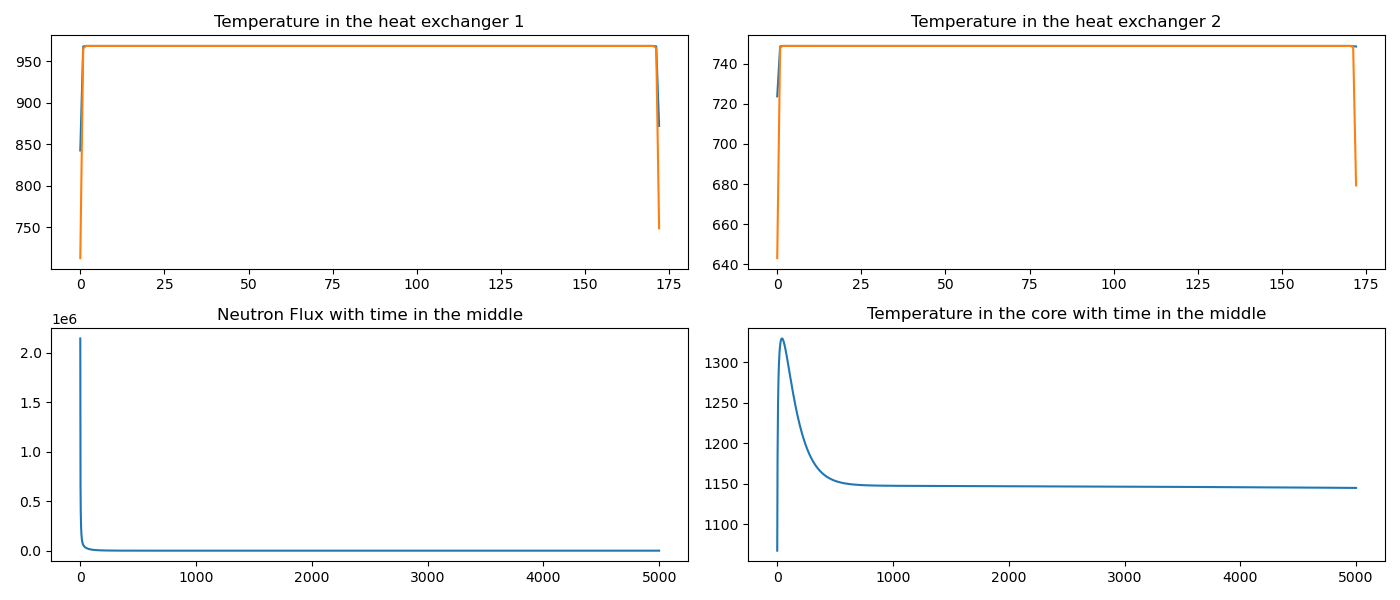
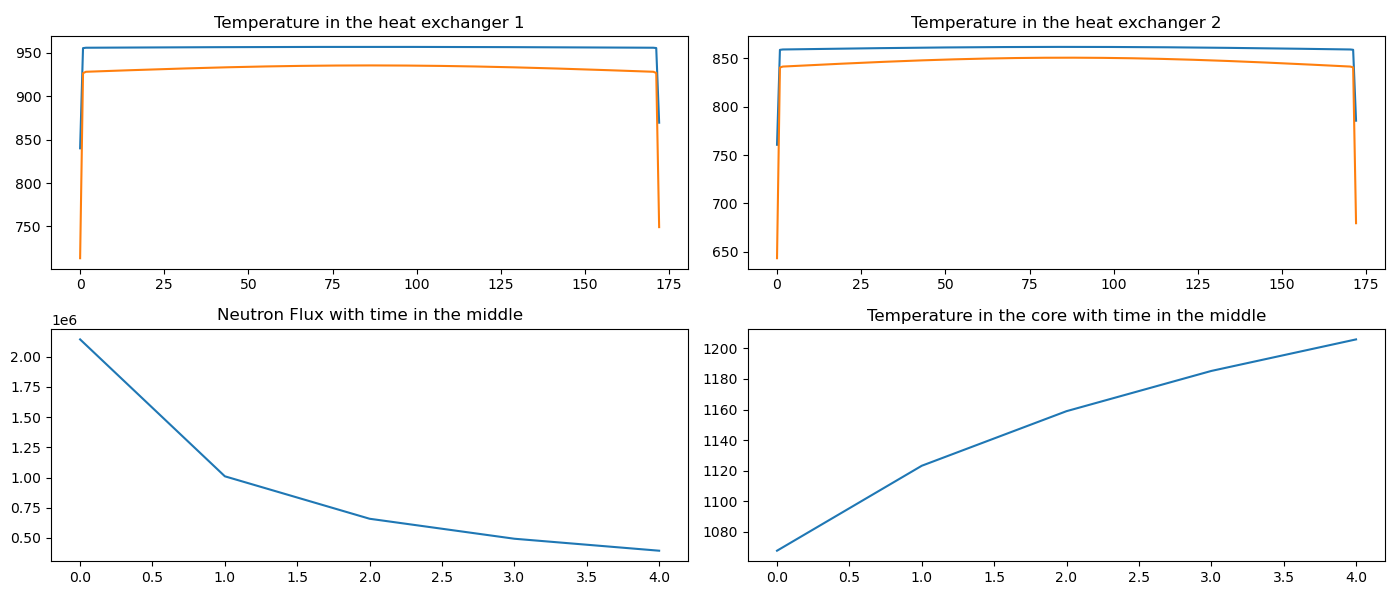
update plotting

diff --git a/main.py b/main.py
@@ -15,7 +15,7 @@ from HX2 import HX2
 from transport_delay import transport_delay
 from power_plant import power_plant_temp
 
-time_span = 5000
+time_span = 10000
 
 # reactivity insertion rod
 rho_insertion = 50  # pcm
@@ -150,14 +150,19 @@ plt.savefig('temperature_in_heat_exchangers.png')  # Save the figure
 plt.close(fig)  # Close the figure to free memory
 
 # Third plot: Delayed Neutron Precursors with time in the middle
-fig, ax = plt.subplots(1, 2, figsize=(14, 6))
+fig, ax = plt.subplots(figsize=(14, 6))
 for i in range(6):
-    ax[0, 0].plot(ci_middle_matrix[:,i], label=f'Ci{i+1}')
-ax[0, 0].set_title('Delayed Neutron Precursors with time in the middle')
-
-ax[0, 1].plot(rho_dt_matrix, label='Reactivity change')
-ax[0, 1].set_title('Reactivity_dt')
+    ax.plot(ci_middle_matrix[:,i], label=f'Ci{i+1}')
+ax.set_title('Delayed Neutron Precursors with time in the middle')
 
 plt.tight_layout()
 plt.savefig('precursors_with_time_middle.png')  # Save the figure
+plt.close(fig)  # Close the figure
+
+fig, ax = plt.subplots(figsize=(14, 6))
+ax.plot(rho_dt_matrix, label='Reactivity change')
+ax.set_title('Reactivity_dt')
+
+plt.tight_layout()
+plt.savefig('rho_dt.png')  # Save the figure
 plt.close(fig)  # Close the figure
